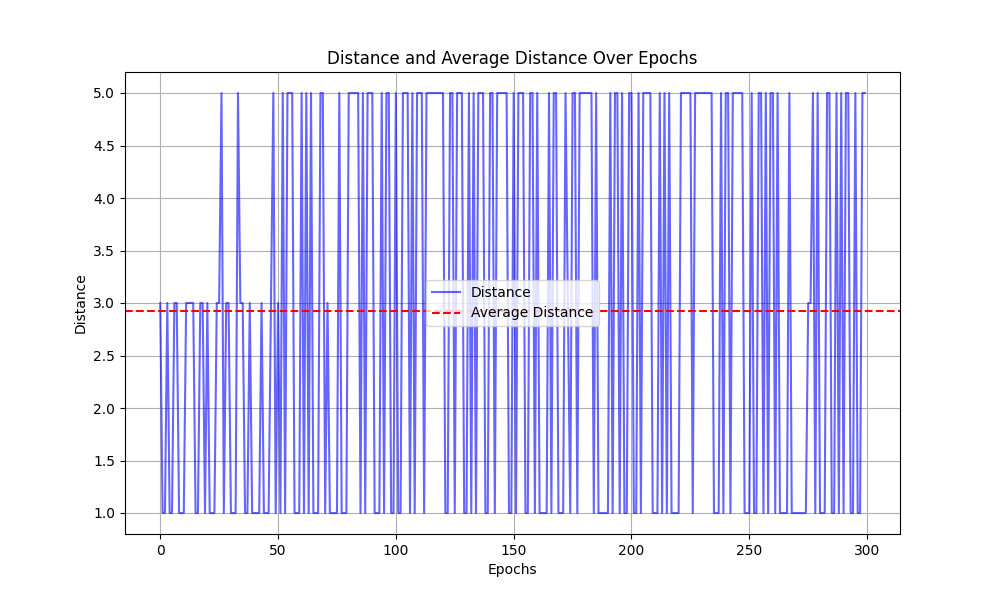
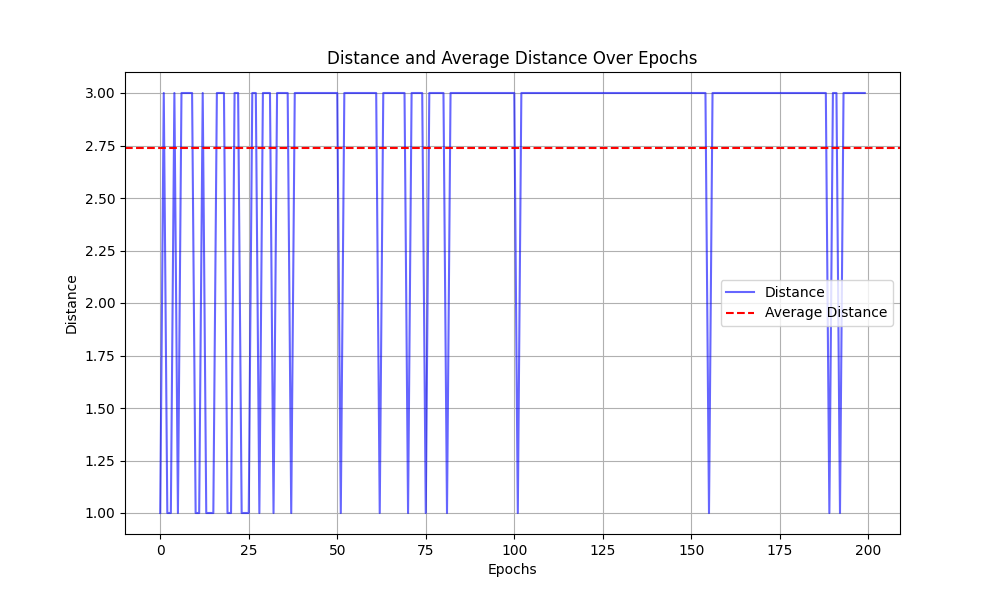
bug fix

diff --git a/src/main_control_fixed.py b/src/main_control_fixed.py
@@ -17,7 +17,7 @@ def simulate_train_loop_control_fixed(train1, train2, track):
     return calculate_distance(train1, train2, track)
 
 # Simulation parameters
-epochs = 3000
+epochs = 1000
 track = SimpleTrack()
 train1 = Train(track, start_position=0)
 train2 = Train(track, start_position=7)
@@ -27,8 +27,8 @@ distances = np.zeros(epochs)
 # Run the simulation for 300 epochs
 for i in range(epochs):
     distances[i] = simulate_train_loop_control_fixed(train1, train2, track)
-    train1.set_position(0)
-    train2.set_position(7)
+    # train1.set_position(0)
+    # train2.set_position(7)
 
 # Save results to graph
 results = []

diff --git a/src/main_reset.py b/src/main_reset.py
@@ -51,7 +51,7 @@ epsilon_values = [1.0] # Epsilon starts at 1.0, decays overtime
 epsilon_end = 0.075   # Minimum exploration rate
 decay_rate = 0.98   # How fast epsilon decreases
 
-epoch_values = [300]
+epoch_values = [200]
 results = []
 mode = "Fixed"
 
